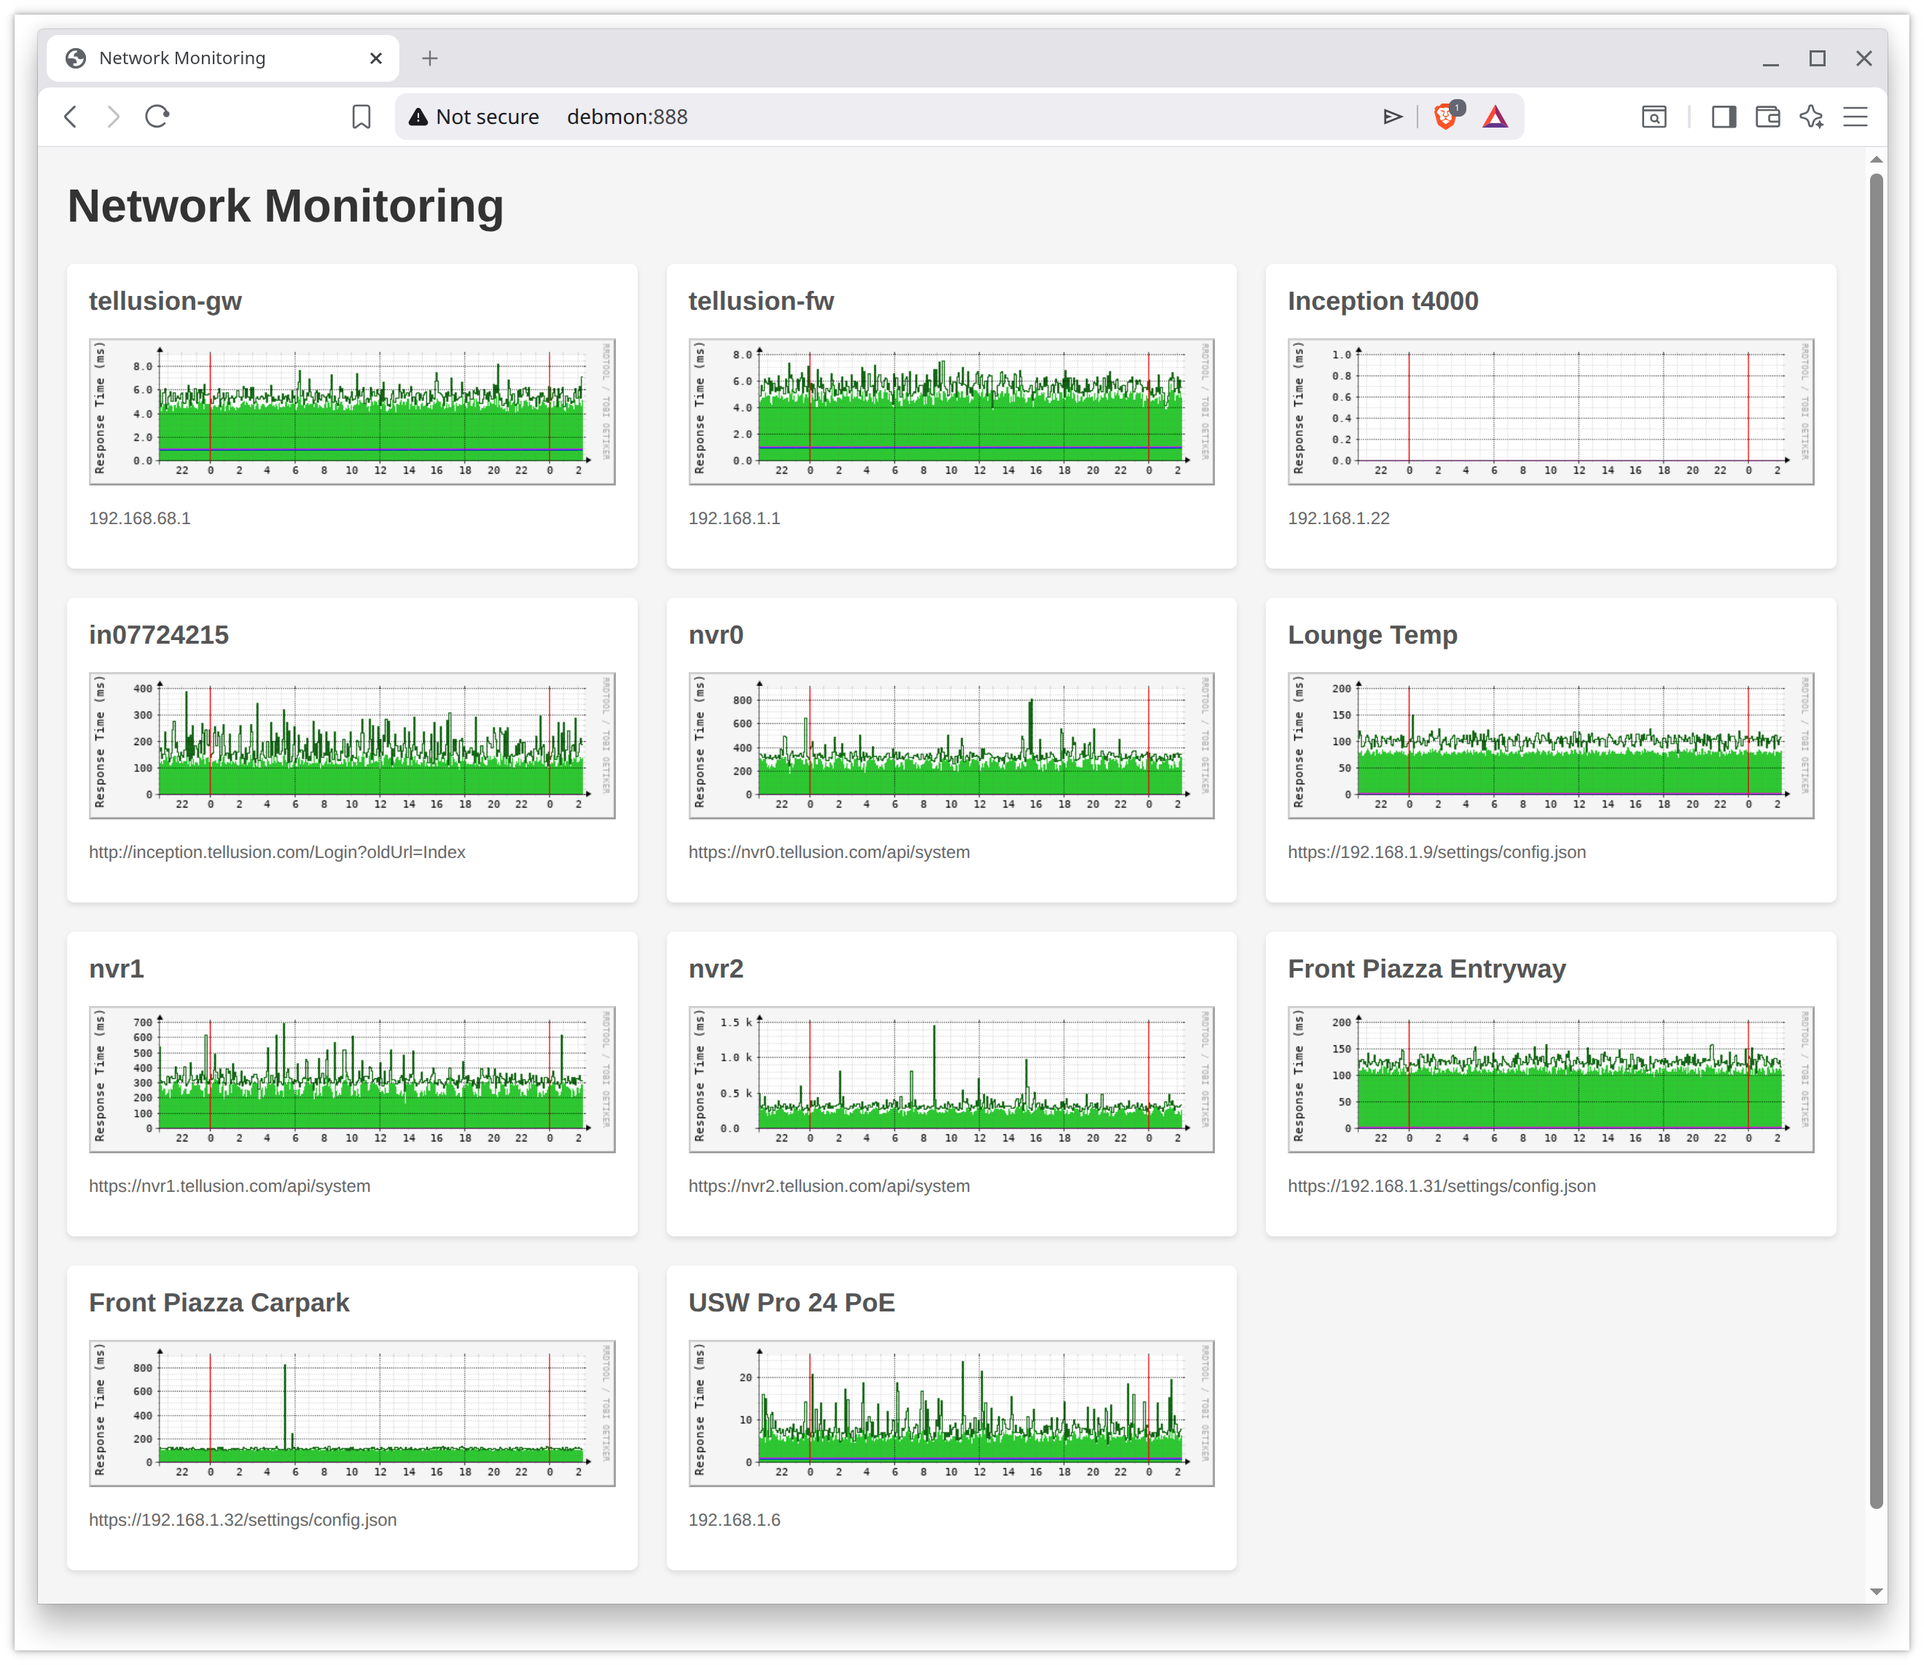
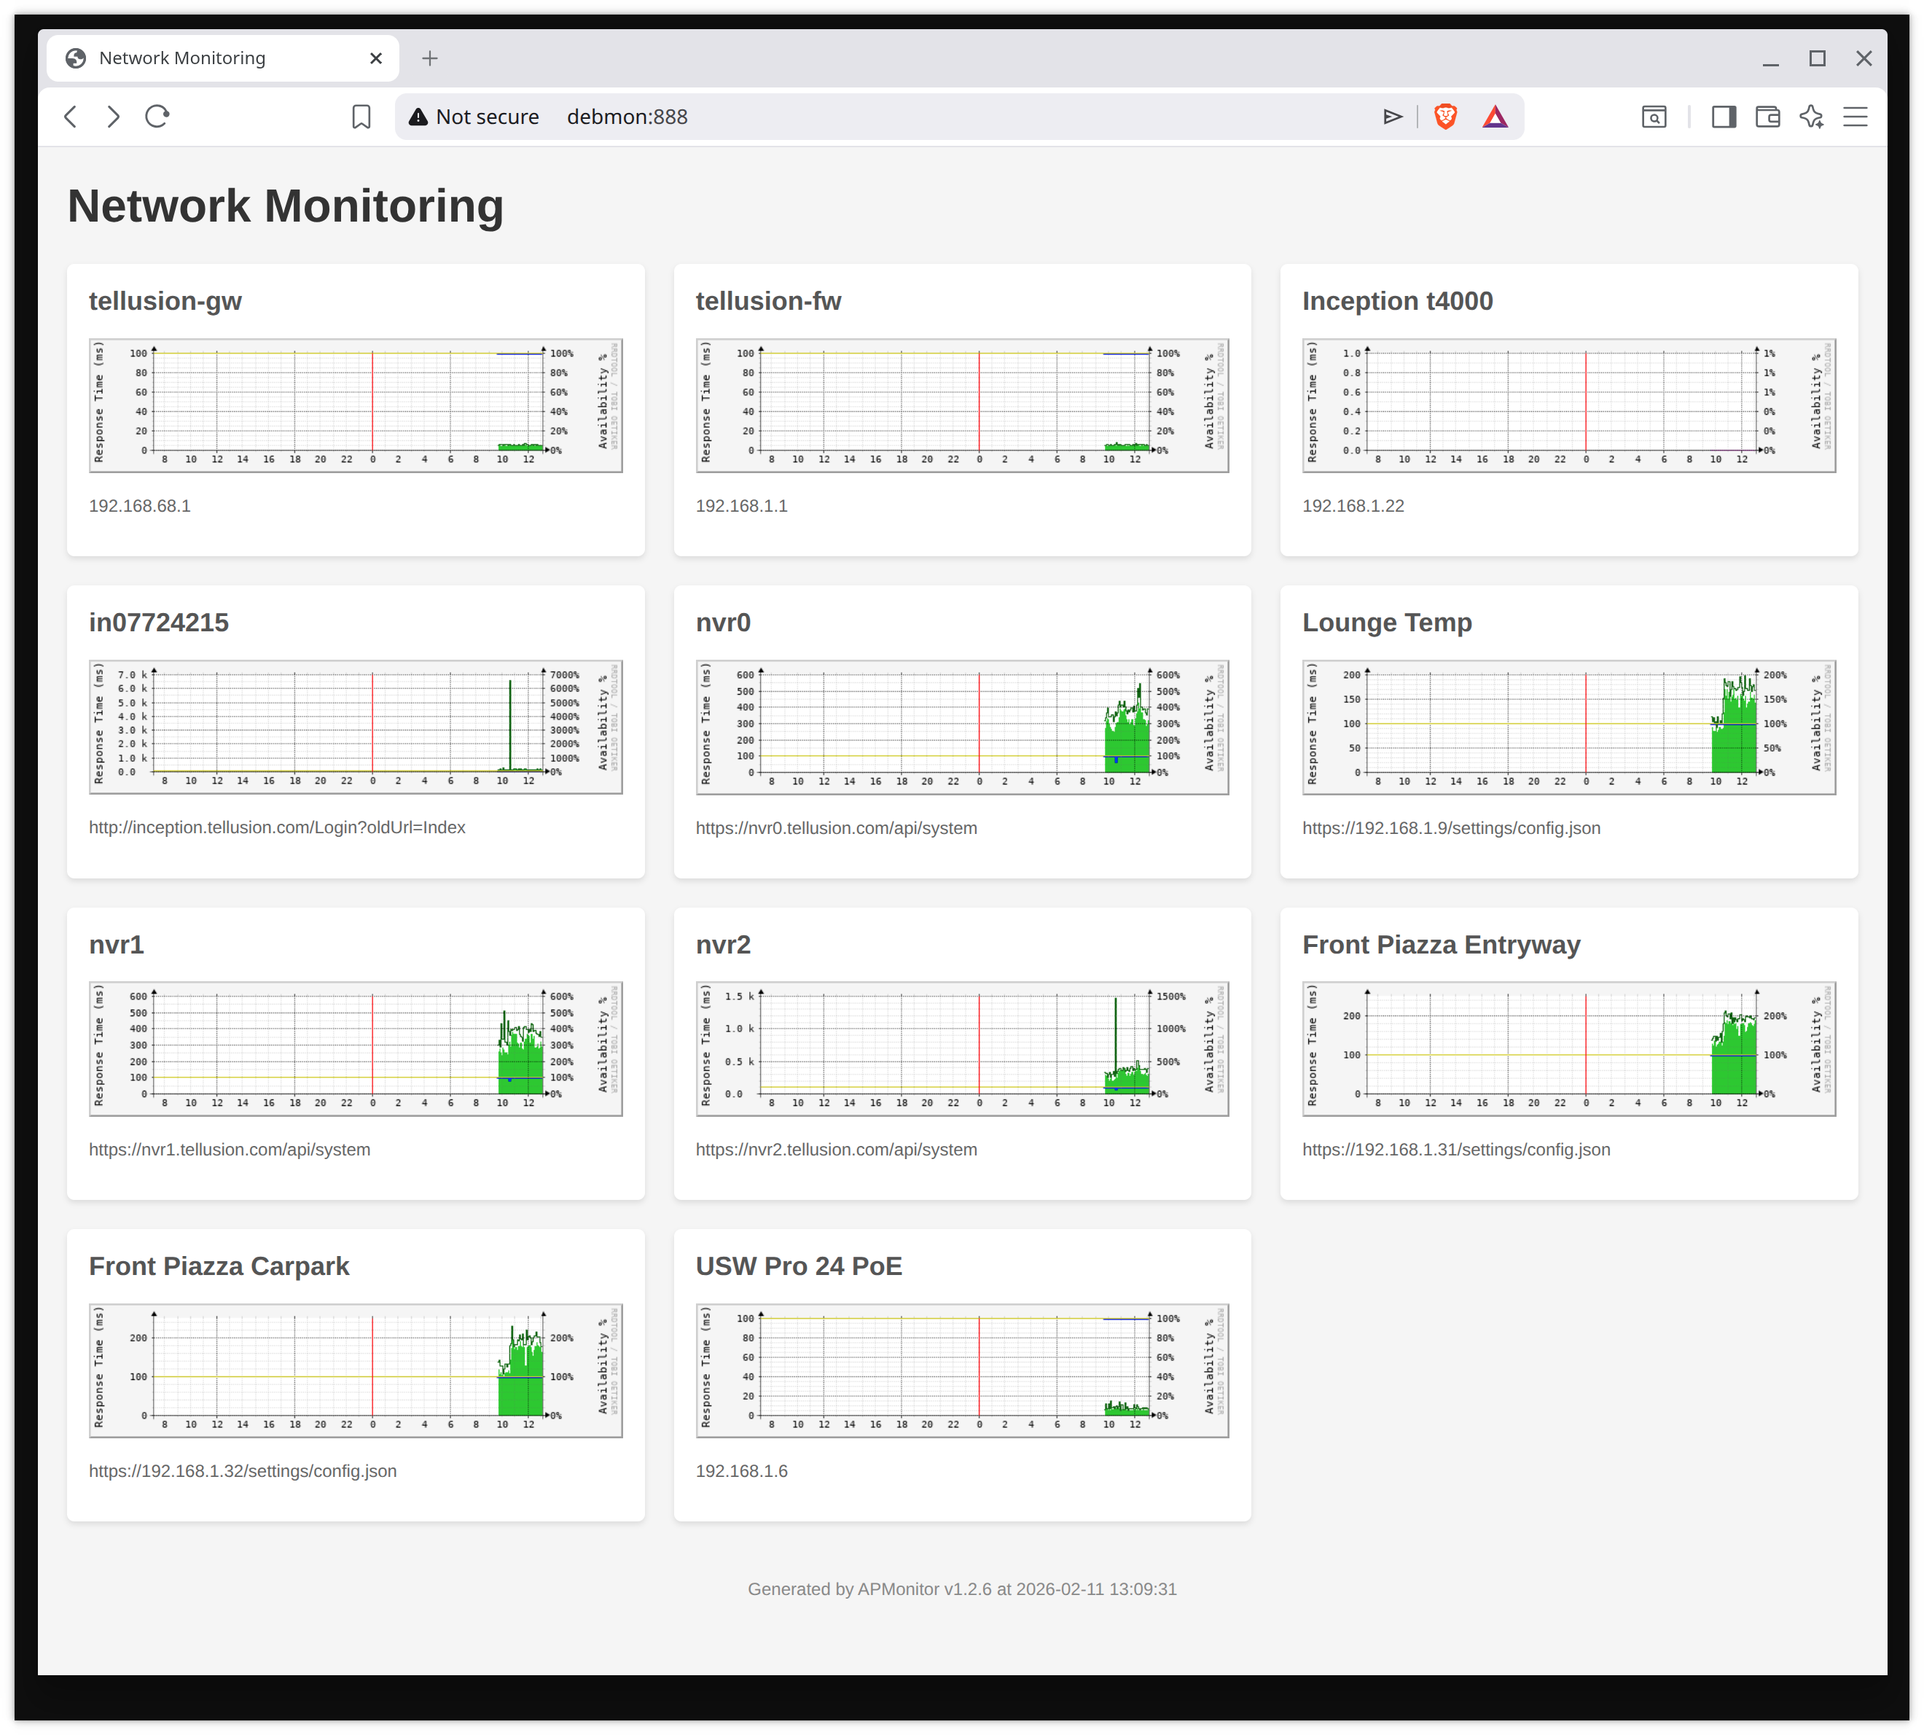
Tuned MRTG Dualaxis

Changed region(s): [[0.0, 0.0, 0.9939, 0.9947], [0.8386, 0.0622, 0.8697, 0.0933], [0.7455, 0.0622, 0.7765, 0.0933]]

diff --git a/APMonitor.py b/APMonitor.py
@@ -44,7 +44,7 @@ You should have received a copy of the GNU General Public License
 along with this program.  If not, see <http://www.gnu.org/licenses/>.
 """
 
-__version__ = "1.2.5"
+__version__ = "1.2.6"
 __app_name__ = "APMonitor"
 
 import argparse
@@ -1472,11 +1472,28 @@ def check_snmp_resource(resource: Dict[str, Any]) -> Optional[str]:
 
             if not os.path.exists(rrd_path):
                 create_snmp_rrd(rrd_path, check_every_n_secs, interfaces)
+                if VERBOSE:
+                    print(f"{prefix}Created SNMP RRD: {rrd_path}")
 
-            update_snmp_rrd(rrd_path, datetime.now(), interfaces, tcp_retrans)
+            if not os.path.exists(rrd_path):
+                error_msg = f"RRD creation failed: {rrd_path} does not exist after create"
+                print(f"{prefix}SNMP check FAILED for '{name}': {error_msg}", file=sys.stderr)
+                return error_msg
+
+            error_msg = update_snmp_rrd(rrd_path, datetime.now(), interfaces, tcp_retrans)
+            if error_msg != None:
+                return error_msg
+
+            if not os.path.exists(rrd_path):
+                error_msg = f"RRD file disappeared after update: {rrd_path}"
+                print(f"{prefix}SNMP check FAILED for '{name}': {error_msg}", file=sys.stderr)
+                return error_msg
 
             if VERBOSE:
                 print(f"{prefix}RRD updated: {rrd_path}")
+
+        elif VERBOSE:
+            print(f"{prefix}RRD disabled (would use: {get_rrd_path(name, 'snmp')})")
 
         # Verbose output
         if VERBOSE:
@@ -1971,9 +1988,10 @@ def create_rrd(rrd_path: str, step_secs: int) -> None:
     heartbeat = step_secs * 2
 
     # Data sources
+    # Store availability as 0-100 for natural percentage display
     data_sources = [
         f'DS:response_time:GAUGE:{heartbeat}:0:U',  # Response time in ms (0 to unlimited)
-        f'DS:is_up:GAUGE:{heartbeat}:0:1',  # Up/down status (0 or 1)
+        f'DS:is_up:GAUGE:{heartbeat}:0:100',  # Availability percentage (0 to 100)
     ]
 
     # Generate RRAs for this step interval
@@ -1992,6 +2010,40 @@ def create_rrd(rrd_path: str, step_secs: int) -> None:
             print(f"{prefix}Created RRD file: {rrd_path} (step={step_secs}s)")
     except rrdtool.OperationalError as e:
         print(f"{prefix}Failed to create RRD file '{rrd_path}': {e}", file=sys.stderr)
+
+
+def update_rrd(rrd_path: str, timestamp: datetime, response_time_ms: Optional[int], is_up: bool) -> str:
+    """Update RRD file with latest metrics.
+
+    Args:
+        rrd_path: Full path to RRD file
+        timestamp: Timestamp of the measurement
+        response_time_ms: Response time in milliseconds (or None if check failed)
+        is_up: Whether resource is up (True) or down (False)
+    """
+    prefix = getattr(thread_local, 'prefix', '')
+
+    # Convert to epoch timestamp
+    epoch = int(timestamp.timestamp())
+
+    # Format values (use 'U' for unknown if response_time is None)
+    # Store availability as 0-100 for percentage display
+    response_val = str(response_time_ms) if response_time_ms is not None else 'U'
+    is_up_val = '100' if is_up else '0'
+
+    try:
+        rrdtool.update(
+            rrd_path,
+            f'{epoch}:{response_val}:{is_up_val}'
+        )
+        if VERBOSE > 1:
+            print(f"{prefix}Updated RRD: {rrd_path} @ {epoch} response={response_val}ms is_up={is_up_val}%")
+    except rrdtool.OperationalError as e:
+        error_msg = f"Failed to update RRD file '{rrd_path}': {e}"
+        print(f"{prefix}{error_msg}", file=sys.stderr)
+        return error_msg
+
+    return None
 
 
 def create_snmp_rrd(rrd_path: str, step_secs: int, interfaces: Dict[str, Dict[str, Any]]) -> None:
@@ -2014,9 +2066,8 @@ def create_snmp_rrd(rrd_path: str, step_secs: int, interfaces: Dict[str, Dict[st
     data_sources = []
 
     for if_index, if_data in interfaces.items():
-        # Sanitize interface name for DS name (max 19 chars, alphanumeric + underscore)
-        if_name = if_data['name']
-        safe_if_name = re.sub(r'[^\w]', '_', if_name)[:15]  # Leave room for _in/_out suffix
+        # Use interface index as DS name base (guarantees uniqueness)
+        safe_if_name = f"if{if_index}"
 
         # COUNTER type for cumulative byte counters (handles wraps at 32/64-bit boundaries)
         data_sources.append(f'DS:{safe_if_name}_in:COUNTER:{heartbeat}:0:U')
@@ -2041,6 +2092,59 @@ def create_snmp_rrd(rrd_path: str, step_secs: int, interfaces: Dict[str, Dict[st
             print(f"{prefix}Created SNMP RRD file: {rrd_path} (step={step_secs}s, {len(interfaces)} interfaces, {len(data_sources)} data sources)")
     except rrdtool.OperationalError as e:
         print(f"{prefix}Failed to create SNMP RRD file '{rrd_path}': {e}", file=sys.stderr)
+
+
+def update_snmp_rrd(rrd_path: str, timestamp: datetime, interfaces: Dict[str, Dict[str, Any]], tcp_retrans: Optional[int]) -> str:
+    """Update SNMP RRD file with latest interface metrics.
+
+    Args:
+        rrd_path: Full path to RRD file
+        timestamp: Timestamp of the measurement
+        interfaces: Dict mapping interface index to metrics (with 'in_octets', 'out_octets')
+        tcp_retrans: TCP retransmit segments counter
+    """
+    prefix = getattr(thread_local, 'prefix', '')
+
+    # Convert to epoch timestamp
+    epoch = int(timestamp.timestamp())
+
+    # Build template string (DS names in order)
+    ds_names = []
+    values = []
+
+    for if_index in sorted(interfaces.keys()):  # Stable sort for deterministic DS order
+        if_data = interfaces[if_index]
+        safe_if_name = f"if{if_index}"
+
+        ds_names.append(f'{safe_if_name}_in')
+        ds_names.append(f'{safe_if_name}_out')
+
+        in_octets = if_data.get('in_octets', 'U')
+        out_octets = if_data.get('out_octets', 'U')
+
+        values.append(str(in_octets) if in_octets != 'U' else 'U')
+        values.append(str(out_octets) if out_octets != 'U' else 'U')
+
+    # Add TCP retransmit
+    ds_names.append('tcp_retrans')
+    values.append(str(tcp_retrans) if tcp_retrans is not None else 'U')
+
+    template = ':'.join(ds_names)
+    value_str = ':'.join(values)
+
+    try:
+        rrdtool.update(
+            rrd_path,
+            '--template', template,
+            f'{epoch}:{value_str}'
+        )
+        if VERBOSE > 1:
+            print(f"{prefix}Updated SNMP RRD: {rrd_path} @ {epoch} ({len(interfaces)} interfaces)")
+    except rrdtool.OperationalError as e:
+        error_msg = "Failed to update SNMP RRD file '{rrd_path}': {e}"
+        print(f"{prefix}{error_msg}", file=sys.stderr)
+        return error_msg
+    return None
 
 
 def create_rrd_rras(step_secs: int) -> List[str]:
@@ -2088,86 +2192,6 @@ def create_rrd_rras(step_secs: int) -> List[str]:
         f'RRA:MIN:0.5:{steps_per_5min}:{rows_2days_5min}',
         f'RRA:MAX:0.5:{steps_per_5min}:{rows_2days_5min}',
     ]
-
-
-def update_rrd(rrd_path: str, timestamp: datetime, response_time_ms: Optional[int], is_up: bool) -> None:
-    """Update RRD file with latest metrics.
-
-    Args:
-        rrd_path: Full path to RRD file
-        timestamp: Timestamp of the measurement
-        response_time_ms: Response time in milliseconds (or None if check failed)
-        is_up: Whether resource is up (True) or down (False)
-    """
-    prefix = getattr(thread_local, 'prefix', '')
-
-    # Convert to epoch timestamp
-    epoch = int(timestamp.timestamp())
-
-    # Format values (use 'U' for unknown if response_time is None)
-    response_val = str(response_time_ms) if response_time_ms is not None else 'U'
-    is_up_val = '1' if is_up else '0'
-
-    try:
-        rrdtool.update(
-            rrd_path,
-            f'{epoch}:{response_val}:{is_up_val}'
-        )
-        if VERBOSE > 1:
-            print(f"{prefix}Updated RRD: {rrd_path} @ {epoch} response={response_val}ms is_up={is_up_val}")
-    except rrdtool.OperationalError as e:
-        print(f"{prefix}Failed to update RRD file '{rrd_path}': {e}", file=sys.stderr)
-
-
-def update_snmp_rrd(rrd_path: str, timestamp: datetime, interfaces: Dict[str, Dict[str, Any]], tcp_retrans: Optional[int]) -> None:
-    """Update SNMP RRD file with latest interface metrics.
-
-    Args:
-        rrd_path: Full path to RRD file
-        timestamp: Timestamp of the measurement
-        interfaces: Dict mapping interface index to metrics (with 'in_octets', 'out_octets')
-        tcp_retrans: TCP retransmit segments counter
-    """
-    prefix = getattr(thread_local, 'prefix', '')
-
-    # Convert to epoch timestamp
-    epoch = int(timestamp.timestamp())
-
-    # Build template string (DS names in order)
-    ds_names = []
-    values = []
-
-    for if_index in sorted(interfaces.keys()):  # Stable sort for deterministic DS order
-        if_data = interfaces[if_index]
-        if_name = if_data['name']
-        safe_if_name = re.sub(r'[^\w]', '_', if_name)[:15]
-
-        ds_names.append(f'{safe_if_name}_in')
-        ds_names.append(f'{safe_if_name}_out')
-
-        in_octets = if_data.get('in_octets', 'U')
-        out_octets = if_data.get('out_octets', 'U')
-
-        values.append(str(in_octets) if in_octets != 'U' else 'U')
-        values.append(str(out_octets) if out_octets != 'U' else 'U')
-
-    # Add TCP retransmit
-    ds_names.append('tcp_retrans')
-    values.append(str(tcp_retrans) if tcp_retrans is not None else 'U')
-
-    template = ':'.join(ds_names)
-    value_str = ':'.join(values)
-
-    try:
-        rrdtool.update(
-            rrd_path,
-            '--template', template,
-            f'{epoch}:{value_str}'
-        )
-        if VERBOSE > 1:
-            print(f"{prefix}Updated SNMP RRD: {rrd_path} @ {epoch} ({len(interfaces)} interfaces)")
-    except rrdtool.OperationalError as e:
-        print(f"{prefix}Failed to update SNMP RRD file '{rrd_path}': {e}", file=sys.stderr)
 
 
 def check_and_heartbeat(resource: Dict[str, Any], site_config: Dict[str, Any]) -> None:
@@ -2459,22 +2483,26 @@ def generate_mrtg_config(config: Dict[str, Any], work_dir: str, mrtg_config_path
 
         # MRTG with LogFormat: rrdtool reads RRD files directly
         # Target points to the RRD file, data source names follow RRD DS names
+        # is_up stored as 0-100 in RRD for percentage display
+        # Order: response_time first (left axis), is_up second (right axis with dualaxis)
         mrtg_lines.extend([
             f"######################################################################",
             f"# {resource['name']} ({resource['type']})",
             f"",
             f"Target[{safe_name}]: response_time&is_up:{rrd_path}",
             f"MaxBytes[{safe_name}]: 100000",
+            f"MaxBytes1[{safe_name}]: 100000",     # Response time max (ms) - first DS
+            f"MaxBytes2[{safe_name}]: 100",        # Availability max (percentage) - second DS
             f"Title[{safe_name}]: {resource['name']} - Availability",
             f"PageTop[{safe_name}]: <h1>{resource['name']} ({resource['address']})</h1>",
-            f"Options[{safe_name}]: gauge,nopercent,growright",
+            f"Options[{safe_name}]: gauge,nopercent,growright,dualaxis",
             f"YLegend[{safe_name}]: Response Time (ms)",
-            f"ShortLegend[{safe_name}]: ms",
-            f"Legend1[{safe_name}]: Response Time",
-            f"Legend2[{safe_name}]: Availability",
-            f"LegendI[{safe_name}]: Response:",
-            f"LegendO[{safe_name}]: Up:",
-            f"WithPeak[{safe_name}]: dwmy",  # Add this line - shows peak response times
+            f"ShortLegend[{safe_name}]:",  # Empty to suppress unit suffix
+            f"Legend1[{safe_name}]: Response Time (ms)",    # First DS (response_time) = In = Green
+            f"Legend2[{safe_name}]: Availability (%)",      # Second DS (is_up) = Out = Blue
+            f"LegendI[{safe_name}]: Response:",             # In (first DS)
+            f"LegendO[{safe_name}]: Avail:",                # Out (second DS)
+            f"WithPeak[{safe_name}]: dwmy",
             f"",
         ])
 
@@ -2722,6 +2750,7 @@ def main() -> None:
     parser.add_argument('-s', '--statefile', default=get_default_statefile(), help=f'Path to state file (default: platform-dependent, see docs)')
     parser.add_argument('--test-webhooks', action='store_true', help='Test webhook notifications and exit')
     parser.add_argument('--test-emails', action='store_true', help='Test email notifications and exit')
+    parser.add_argument('--generate-rrds', action='store_true', help='Enable RRD database creation and updates')
     parser.add_argument('--generate-mrtg-config', metavar='WORKDIR', nargs='?', const='/var/www/html/mrtg', help='Generate MRTG config file and exit (default workdir: /var/www/html/mrtg)')
     args = parser.parse_args()
 
@@ -2793,6 +2822,10 @@ def main() -> None:
             print(f"MRTG working directory: {work_dir}")
             if all_config_files:
                 print(f"All MRTG config files in mrtg-rrd.cgi.pl: {', '.join(all_config_files)}")
+            RRD_ENABLED = True
+
+        # Enable RRD if requested
+        if args.generate_rrds:
             RRD_ENABLED = True
 
         if args.threads == 1 and 'max_threads' in config['site']:  # only if not overridden by command line

diff --git a/README.md b/README.md
@@ -40,7 +40,7 @@ Ex Chief Scientist @ Clemenger BBDO / Omnicom</i>
 
 To run APMonitor with a configuration file `test-apmonitor-config.yaml ` & auto-created statefile `/tmp/statefile.json`:
 ```
- ./APMonitor.py -vv -s /tmp/statefile.json test-apmonitor-config.yaml 
+ ./APMonitor.py -vv -s /tmp/statefile.json test-apmonitor-config.yaml --generate-rrds 
 ```
 
 # Design Philosophy &amp; Provenance
@@ -1480,7 +1480,7 @@ sudo pip3 uninstall -y PyYAML requests pyOpenSSL urllib3 aioquic easysnmp
 
 APMonitor.py is licensed under the [GNU General Public License version 3](LICENSE.txt).
 ```
-Software: APMonitor 1.2.5
+Software: APMonitor 1.2.6
 License: GNU General Public License version 3
 Licensor: Andrew (AP) Prendergast, ap@andrewprendergast.com -- FSF Member
 ```

diff --git a/CHANGES.md b/CHANGES.md
@@ -9,6 +9,10 @@ Multithreaded high speed availability checking for PING, TCP/UDP, QUIC & HTTP/S 
 Integrates w/Site24x7 heartbeat monitoring for failover alerts + Slack & Pushover webhooks.
 Thread safe, reentrant, easily modifiable.
 
+# Release 1.2.6 (11-Feb-26): Tuned MRTG Dualaxis
+- Added --generate-rrds command line option to force storage of SNMP data
+- Added dualaxis support to plot availability next to response time correctly
+
 # Release 1.2.5 (2-Feb-26): Basic SNMP Support
 - Added "snmp" type with interface I/O metrics
 
